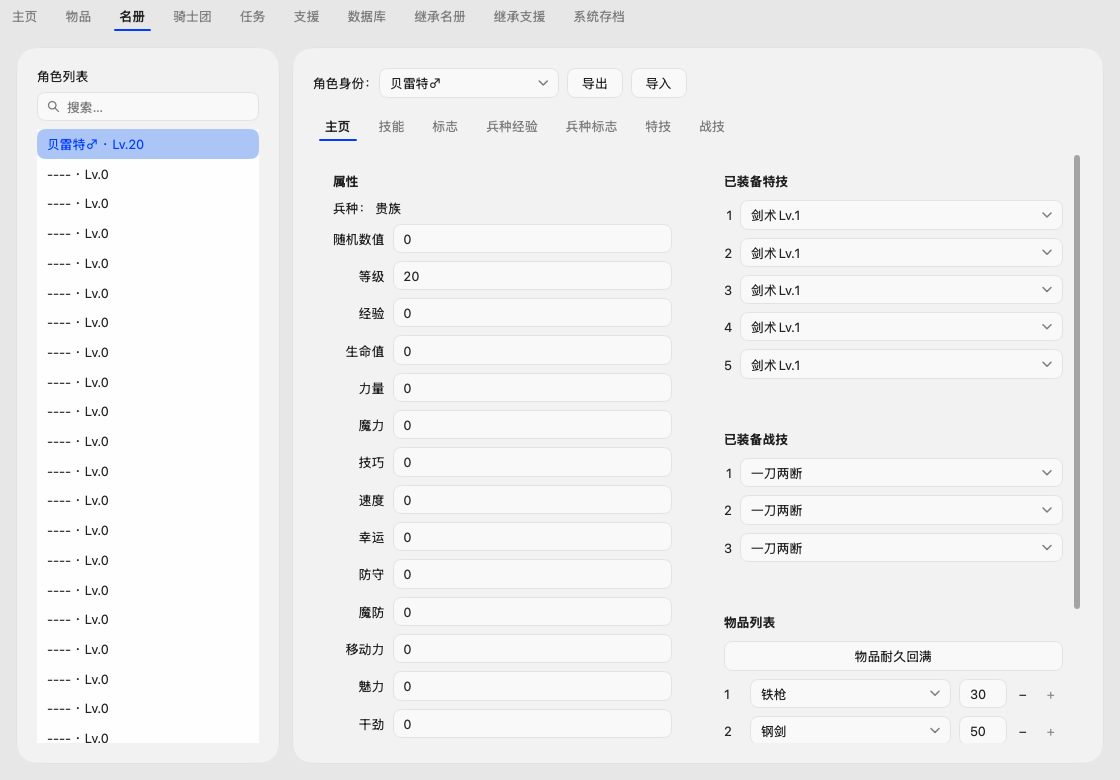
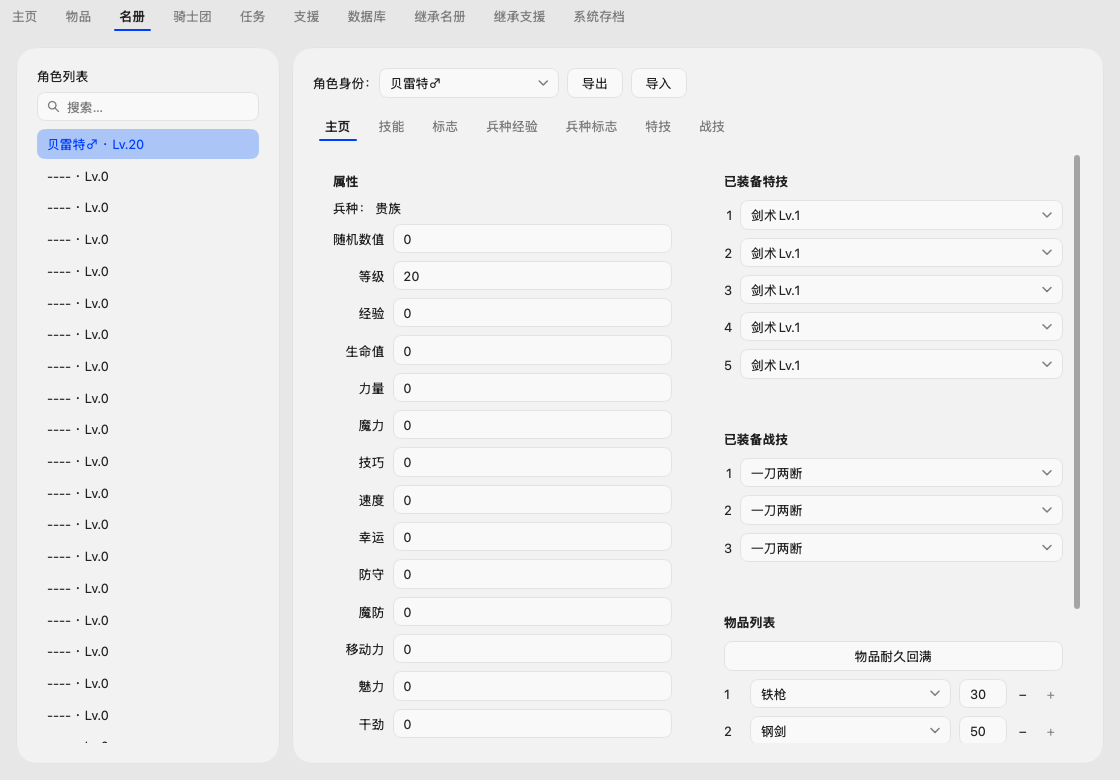
fix(ui): align sidebar edges and fill inventory columns

Changed region(s): [[0.0625, 0.2154, 0.0938, 0.7692], [0.0625, 0.8308, 0.0938, 0.9231]]

diff --git a/internal/app/layout_test.go b/internal/app/layout_test.go
@@ -65,6 +65,27 @@ func assertControlsFit(t *testing.T, tt *ui.Tester, width int) {
 	t.Helper()
 	var controls []ui.AccessInfo
 	all := tt.AccessAll()
+	for _, list := range all {
+		if list.Role != ui.RoleList || list.Offscreen {
+			continue
+		}
+		for _, node := range all {
+			if node.Offscreen {
+				continue
+			}
+			if node.Role == ui.RoleListItem && containsRect(list.Bounds, node.Bounds) {
+				if math.Abs(float64(node.Bounds.X-list.Bounds.X)) > 0.5 || math.Abs(float64(node.Bounds.W-list.Bounds.W)) > 0.5 {
+					t.Errorf("list row is indented from its column: %q", node.Name)
+				}
+			}
+			gap := list.Bounds.Y - node.Bounds.Y - node.Bounds.H
+			if node.Role == ui.RoleTextField && gap >= 0 && gap <= 16 && math.Abs(float64(node.Bounds.X-list.Bounds.X)) < 16 {
+				if math.Abs(float64(node.Bounds.X-list.Bounds.X)) > 0.5 || math.Abs(float64(node.Bounds.W-list.Bounds.W)) > 0.5 {
+					t.Errorf("search field and list edges differ: %q", node.Name)
+				}
+			}
+		}
+	}
 	for _, n := range all {
 		if !visibleControl(n) && (n.Role != ui.RoleText || n.Offscreen || n.Bounds.W <= 0 || n.Bounds.H <= 0) {
 			continue
@@ -253,6 +274,60 @@ func TestLegacyAppearanceLayers(t *testing.T) {
 		}
 		if got := tt.Image().RGBAAt(int(input.Bounds.X+input.Bounds.W-12), int(input.Bounds.Y+8)); got.R != 249 || got.G != 249 || got.B != 249 {
 			t.Fatalf("control background changed: %v", got)
+		}
+	}
+}
+
+func TestInventoryCardsAndListEdges(t *testing.T) {
+	for _, size := range [][2]int{{1120, 780}, {860, 600}} {
+		a := fixture(t)
+		a.Page = "Items"
+		tt := ui.NewTester(a.View, size[0], size[1])
+		cards := map[string]ui.AccessInfo{}
+		for _, name := range []string{"Item List", "Item Editor", "Item Tools", "Misc Items", "Gift Items"} {
+			node, ok := tt.AccessByRole(ui.RoleGroup, name)
+			if !ok {
+				t.Fatalf("missing inventory card: %s", name)
+			}
+			cards[name] = node
+		}
+		left := cards["Item List"].Bounds
+		for _, name := range []string{"Misc Items", "Gift Items"} {
+			r := cards[name].Bounds
+			if math.Abs(float64(r.Y-left.Y)) > 0.5 || math.Abs(float64(r.H-left.H)) > 0.5 {
+				t.Errorf("%s does not align with the inventory list", name)
+			}
+		}
+		editor, tools := cards["Item Editor"].Bounds, cards["Item Tools"].Bounds
+		if math.Abs(float64(editor.Y-left.Y)) > 0.5 || math.Abs(float64(tools.Y+tools.H-left.Y-left.H)) > 0.5 || math.Abs(float64(editor.H-tools.H)) > 0.5 {
+			t.Error("the stacked editor cards do not fill the inventory column equally")
+		}
+		lists := 0
+		for _, list := range tt.AccessAll() {
+			if list.Role != ui.RoleList || list.Offscreen {
+				continue
+			}
+			lists++
+			r := list.Bounds
+			pixel := tt.Image().RGBAAt(int(r.X+1), int(r.Y+r.H-1))
+			if pixel.R != 242 || pixel.G != 242 || pixel.B != 242 {
+				t.Errorf("list has a separate background: %v", pixel)
+			}
+			rows := 0
+			for _, row := range tt.AccessAll() {
+				if row.Role == ui.RoleListItem && !row.Offscreen && containsRect(r, row.Bounds) {
+					rows++
+					if math.Abs(float64(row.Bounds.X-r.X)) > 0.5 || math.Abs(float64(row.Bounds.W-r.W)) > 0.5 {
+						t.Errorf("list row does not align with the list edge: %+v / %+v", row.Bounds, r)
+					}
+				}
+			}
+			if rows == 0 {
+				t.Fatal("list has no visible rows to check")
+			}
+		}
+		if lists != 3 {
+			t.Fatalf("expected all three inventory lists, got %d", lists)
 		}
 	}
 }

diff --git a/internal/app/inventory.go b/internal/app/inventory.go
@@ -12,7 +12,7 @@ func (a *App) itemsPage(c *ui.Context) {
 	width, _ := c.Size()
 	scale := min(float32(1), width/1120)
 	listWidth, editorWidth := max(float32(190), 250*scale), max(float32(168), 220*scale)
-	ui.Row(c).Grow(1).Basis(0).MinHeight(0).Gap(editorAppearance.SectionGap).AlignItems(ui.Stretch).Children(func() {
+	ui.Row(c).Grow(1).Basis(0).MinHeight(0).Gap(10).AlignItems(ui.Stretch).Children(func() {
 		rows := make([]row, 400)
 		for i := range rows {
 			p := fmt.Sprintf("Items[%d].", i)
@@ -20,15 +20,15 @@ func (a *App) itemsPage(c *ui.Context) {
 		}
 		selected := -1
 		a.card(c, a.T("Item List")).Width(listWidth).MinHeight(0).Children(func() { selected = a.selection(c, "items-items", "Item List", rows, nil) })
-		ui.Scroll(c).Width(editorWidth).MinHeight(0).Children(func() {
-			panel := ui.Column(c.Key(selected)).Gap(editorAppearance.SectionGap)
+		ui.Column(c).Width(editorWidth).MinHeight(0).Children(func() {
+			panel := ui.Column(c.Key(selected)).Fill().Gap(10)
 			if selected < 0 {
 				return
 			}
 			p := fmt.Sprintf("Items[%d].", selected)
 			draft := a.draft(panel, p+"Id", p+"Durability", p+"Amount")
 			panel.Children(func() {
-				a.section(c, "Item Editor", func() {
+				a.scrollingSection(c, "Item Editor", func() {
 					ui.Textf(c, "%s %d", a.T("Slot"), selected)
 					draft.choice(a, c, "Item", p+"Id", a.DB.Catalog["items"])
 					draft.number(a, c, "Durability", p+"Durability")
@@ -46,7 +46,7 @@ func (a *App) itemsPage(c *ui.Context) {
 						}
 					}
 				})
-				a.section(c, "Item Tools", func() {
+				a.scrollingSection(c, "Item Tools", func() {
 					if ui.Button(c, a.T("Sort Items")).Clicked() {
 						a.apply(save.Operation{"op": "sortItems"})
 						a.table("items-items").Selected = 0

diff --git a/internal/app/controls.go b/internal/app/controls.go
@@ -58,6 +58,15 @@ func (a *App) section(c *ui.Context, title string, contents func()) {
 	})
 }
 
+func (a *App) scrollingSection(c *ui.Context, title string, contents func()) {
+	a.card(c, a.T(title)).Grow(1).Basis(0).MinHeight(0).Children(func() {
+		ui.Text(c, a.T(title)).Bold()
+		ui.Scroll(c).Grow(1).MinHeight(0).Children(func() {
+			ui.Column(c).Gap(editorAppearance.ControlGap).Children(contents)
+		})
+	})
+}
+
 func (a *App) groupBox(c *ui.Context, title string) ui.Element {
 	return ui.Column(c).Padding(editorAppearance.CardPadding).Gap(editorAppearance.SectionGap).MinWidth(0).Role(ui.RoleGroup).Label(a.T(title))
 }

diff --git a/internal/app/appearance.go b/internal/app/appearance.go
@@ -47,7 +47,8 @@ var listTheme = func() *ui.Theme {
 func themedList(c *ui.Context, state *ui.ListState, count int, row func(int)) ui.Element {
 	var list ui.Element
 	ui.Themed(c, listTheme).Grow(1).Basis(0).MinHeight(0).Children(func() {
-		list = ui.List(c, state, count, row).Grow(1).MinHeight(0)
+		list = ui.List(c, state, count, row).Grow(1).MinHeight(0).
+			Background(editorAppearance.Card).Gap(2)
 	})
 	return list
 }
